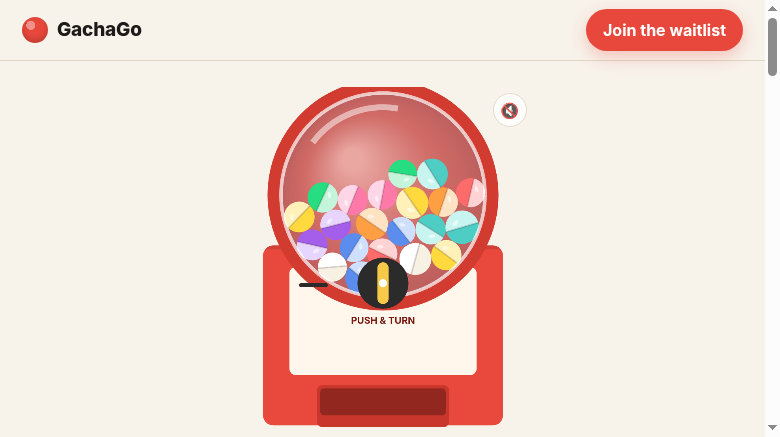
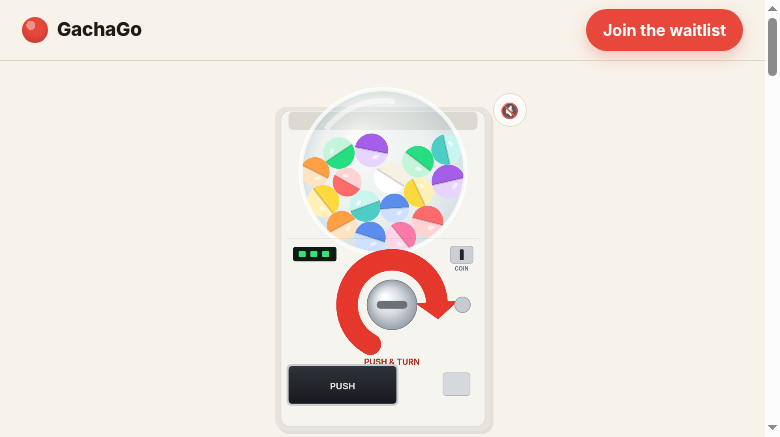
MC-488: GachaGo LP ガチャ機を本物の日本ガシャポンに作り直し
- 実機録画(Bandai gashapon)をフレーム解析し機体を忠実化: 上=カプセルドーム、
  下の機構=大きな赤い半円矢印+クロームのノブ+緑LED表示+COIN投入口+暗い排出ドロワー+コイン返却カップ
- 排出はドロワーから: 回す→ノブ回転+シェイク→カプセルがドロワーから出て前面に落下・バウンド→結果
- 需要分析: /api/gachago/stats(保護)でキャンペーン別/国別/日別集計+直近登録を返す
- auth: 公開は /gachago(静的) と /api/gachago/waitlist(+/count)の完全一致のみ。stats等は保護維持(email非公開)

実機検証(公開URL・トークン無し): 本物寄りの機体描画・回す→ドロワー排出→結果まで通し・LP/count公開200・stats 401維持

Changed region(s): [[0.3385, 0.1785, 0.6462, 0.9817]]

diff --git a/web/public/gachago.html b/web/public/gachago.html
@@ -325,13 +325,14 @@
   ];
   function rnd(a,b){ return a + Math.random()*(b-a); }
 
-  // machine geometry (logical coords)
+  // machine geometry (logical coords) — authentic Japanese gashapon layout:
+  // glass dome (top) → white mechanism panel (red arc + chrome knob + LED + coin) → dark dispense drawer (bottom-left)
   var M = {
-    bodyX: W*0.5, topY: H*0.06,
-    domeCx: W*0.5, domeCy: H*0.30, domeR: W*0.34,   // glass dome
-    trayY: H*0.845, trayX: W*0.5, trayW: W*0.44,
-    chuteX: W*0.5, chuteY: H*0.66,                  // dispense opening
-    knobX: W*0.5, knobY: H*0.545, knobR: W*0.085
+    domeCx: W*0.50, domeCy: H*0.235, domeR: W*0.275,  // glass dome of capsules
+    knobX:  W*0.53, knobY: H*0.605, knobR: W*0.083,   // chrome turn knob
+    arrowR: W*0.150,                                   // red semicircle arrow radius
+    drawerX:W*0.055,drawerY:H*0.775, drawerW:W*0.34, drawerH:H*0.105, // dark dispense drawer (bottom-left)
+    restY:  H*0.905                                     // where the capsule lands in front
   };
   var GRAV = 0.55;
 
@@ -339,7 +340,7 @@
   var caps = [];
   function makeCaps(){
     caps = [];
-    var n = 22;
+    var n = 16;
     for(var i=0;i<n;i++){
       var c = CAP_COLORS[i % CAP_COLORS.length];
       caps.push({
@@ -405,8 +406,9 @@
     }
   }
 
-  // dropped capsule (the one that comes out)
+  // dropped capsule (the one that comes out) + live dispense-mouth coords (set in draw)
   var drop=null;
+  var DISP={x:W*0.28,y:H*0.80};
 
   // ---------- drawing ----------
   function roundRect(x,y,w,h,r){ ctx.beginPath(); ctx.moveTo(x+r,y);
@@ -436,58 +438,82 @@
     ctx.save();
     if(shakeMag>0.2){ ctx.translate(rnd(-shakeMag,shakeMag), rnd(-shakeMag,shakeMag)); }
 
-    // ----- machine body -----
-    var bw=W*0.80, bx=(W-bw)/2;
-    // base cabinet
-    ctx.fillStyle="#e9483c";
-    roundRect(bx, H*0.44, bw, H*0.50, 26); ctx.fill();
-    ctx.fillStyle="rgba(0,0,0,.10)";
-    roundRect(bx, H*0.44, bw, H*0.50, 26); ctx.save(); ctx.clip();
-    ctx.fillRect(bx, H*0.44, bw, 10); ctx.restore();
-    // face plate
-    ctx.fillStyle="#fff6ec";
-    roundRect(bx+bw*0.11, H*0.50, bw*0.78, H*0.30, 16); ctx.fill();
+    // ----- white machine body -----
+    var bw=W*0.72, bx=(W-bw)/2, by=H*0.055, bh=H*0.90;
+    ctx.fillStyle="rgba(0,0,0,.08)"; roundRect(bx+6, by+8, bw, bh, 30); ctx.fill();   // drop shadow
+    ctx.fillStyle="#e7e4dd"; roundRect(bx, by, bw, bh, 30); ctx.fill();               // body shell
+    ctx.fillStyle="#f6f4ef"; roundRect(bx+W*0.02, by+H*0.012, bw-W*0.04, bh-H*0.024, 22); ctx.fill(); // inset face
+    ctx.strokeStyle="rgba(0,0,0,.06)"; ctx.lineWidth=2; ctx.stroke();
 
-    // dome glass housing ring
-    ctx.fillStyle="#d23b30";
-    ctx.beginPath(); ctx.arc(M.domeCx, M.domeCy, M.domeR+W*0.045, 0, 6.28); ctx.fill();
-    // glass dome
-    var g = ctx.createRadialGradient(M.domeCx-M.domeR*0.3,M.domeCy-M.domeR*0.35,M.domeR*0.1, M.domeCx,M.domeCy,M.domeR);
-    g.addColorStop(0,"rgba(255,255,255,.55)"); g.addColorStop(.6,"rgba(210,235,245,.28)"); g.addColorStop(1,"rgba(140,180,200,.30)");
-    ctx.fillStyle=g;
-    ctx.beginPath(); ctx.arc(M.domeCx, M.domeCy, M.domeR, 0, 6.28); ctx.fill();
-
-    // capsules clipped to dome
-    ctx.save();
-    ctx.beginPath(); ctx.arc(M.domeCx,M.domeCy,M.domeR,0,6.28); ctx.clip();
+    // ----- dome collar + glass dome (top) -----
+    ctx.fillStyle="#dcd9d1"; roundRect(bx+W*0.045, by+H*0.014, bw-W*0.09, H*0.05, 12); ctx.fill();
+    var g = ctx.createRadialGradient(M.domeCx-M.domeR*0.3,M.domeCy-M.domeR*0.4,M.domeR*0.1, M.domeCx,M.domeCy,M.domeR);
+    g.addColorStop(0,"rgba(255,255,255,.62)"); g.addColorStop(.62,"rgba(214,236,245,.26)"); g.addColorStop(1,"rgba(150,185,205,.32)");
+    ctx.fillStyle=g; ctx.beginPath(); ctx.arc(M.domeCx, M.domeCy, M.domeR, 0, 6.28); ctx.fill();
+    ctx.save(); ctx.beginPath(); ctx.arc(M.domeCx,M.domeCy,M.domeR,0,6.28); ctx.clip();
     for(var i=0;i<caps.length;i++){ var c=caps[i]; drawCapsule(c.x,c.y,c.r,c.col,c.ang); }
     ctx.restore();
-    // glass rim + shine
-    ctx.strokeStyle="rgba(255,255,255,.7)"; ctx.lineWidth=W*0.012;
+    ctx.strokeStyle="rgba(255,255,255,.78)"; ctx.lineWidth=W*0.014;
     ctx.beginPath(); ctx.arc(M.domeCx, M.domeCy, M.domeR, 0, 6.28); ctx.stroke();
-    ctx.strokeStyle="rgba(255,255,255,.5)"; ctx.lineWidth=W*0.02;
+    ctx.strokeStyle="rgba(255,255,255,.5)"; ctx.lineWidth=W*0.018;
     ctx.beginPath(); ctx.arc(M.domeCx, M.domeCy, M.domeR*0.86, -2.5, -1.4); ctx.stroke();
 
-    // ----- knob (crank) -----
+    // ----- mechanism panel -----
+    var py=H*0.42;                                                       // top of mechanism
+    ctx.strokeStyle="rgba(0,0,0,.07)"; ctx.lineWidth=2;
+    ctx.beginPath(); ctx.moveTo(bx+W*0.04, py); ctx.lineTo(bx+bw-W*0.04, py); ctx.stroke();
+
+    // green LED display (top-left)
+    var gx=bx+W*0.06, gy=py+H*0.024, gw=W*0.145, gh=H*0.04;
+    ctx.fillStyle="#0d1c13"; roundRect(gx,gy,gw,gh,6); ctx.fill();
+    ctx.fillStyle="#37e07a";
+    for(var d2=0; d2<3; d2++){ roundRect(gx+gw*0.13+d2*gw*0.27, gy+gh*0.3, gw*0.16, gh*0.4, 2); ctx.fill(); }
+
+    // coin slot (top-right) + COIN
+    var csx=bx+bw-W*0.135, csy=py+H*0.022;
+    ctx.fillStyle="#cccfd4"; roundRect(csx,csy,W*0.075,H*0.048,7); ctx.fill();
+    ctx.strokeStyle="#a7abb1"; ctx.lineWidth=1.5; ctx.stroke();
+    ctx.fillStyle="#22252b"; roundRect(csx+W*0.031,csy+H*0.009,W*0.013,H*0.03,3); ctx.fill();
+    ctx.fillStyle="#5566a0"; ctx.font="700 "+Math.round(W*0.019)+"px system-ui"; ctx.textAlign="center";
+    ctx.fillText("COIN", csx+W*0.037, csy+H*0.048+H*0.02);
+
+    // big red semicircle arrow sweeping around the knob
+    ctx.save(); ctx.translate(M.knobX, M.knobY);
+    ctx.strokeStyle="#e5372b"; ctx.lineWidth=W*0.072; ctx.lineCap="round";
+    ctx.beginPath(); ctx.arc(0,0,M.arrowR, Math.PI*0.66, Math.PI*1.98); ctx.stroke();
+    var ae=Math.PI*1.98, ex=Math.cos(ae)*M.arrowR, ey=Math.sin(ae)*M.arrowR;   // arrowhead
+    ctx.fillStyle="#e5372b"; ctx.save(); ctx.translate(ex,ey); ctx.rotate(ae+Math.PI/2);
+    ctx.beginPath(); ctx.moveTo(0,-W*0.072); ctx.lineTo(W*0.058,0); ctx.lineTo(0,W*0.072); ctx.closePath(); ctx.fill();
+    ctx.restore(); ctx.restore();
+
+    // chrome knob (rotates while spinning)
     ctx.save(); ctx.translate(M.knobX, M.knobY); ctx.rotate(knobAng);
-    ctx.fillStyle="#2b2b2b"; ctx.beginPath(); ctx.arc(0,0,M.knobR,0,6.28); ctx.fill();
-    ctx.fillStyle="#f7c948";
-    roundRect(-M.knobR*0.22,-M.knobR*0.82, M.knobR*0.44, M.knobR*1.64, M.knobR*0.22); ctx.fill();
-    ctx.fillStyle="#fff"; ctx.beginPath(); ctx.arc(0,0,M.knobR*0.16,0,6.28); ctx.fill();
+    var kg=ctx.createRadialGradient(-M.knobR*0.3,-M.knobR*0.3,M.knobR*0.1, 0,0,M.knobR);
+    kg.addColorStop(0,"#ffffff"); kg.addColorStop(.5,"#d6dade"); kg.addColorStop(1,"#98a0aa");
+    ctx.fillStyle=kg; ctx.beginPath(); ctx.arc(0,0,M.knobR,0,6.28); ctx.fill();
+    ctx.strokeStyle="#7c828c"; ctx.lineWidth=2; ctx.stroke();
+    ctx.fillStyle="#6b7079"; roundRect(-M.knobR*0.62,-M.knobR*0.16, M.knobR*1.24, M.knobR*0.32, M.knobR*0.16); ctx.fill();
     ctx.restore();
-    ctx.fillStyle="#7a1c14"; ctx.font="700 "+Math.round(W*0.032)+"px system-ui"; ctx.textAlign="center";
-    ctx.fillText("PUSH & TURN", M.knobX, M.knobY+M.knobR+W*0.05);
+    ctx.fillStyle="#b23127"; ctx.font="700 "+Math.round(W*0.028)+"px system-ui"; ctx.textAlign="center";
+    ctx.fillText("PUSH & TURN", M.knobX, M.knobY+M.arrowR+H*0.042);
 
-    // coin slot
-    ctx.fillStyle="#2b2b2b";
-    roundRect(bx+bw*0.15, H*0.545, bw*0.12, 10, 5); ctx.fill();
+    // coin-return knob (small chrome, right)
+    ctx.fillStyle="#c7cbd0"; ctx.beginPath(); ctx.arc(bx+bw-W*0.095, M.knobY, W*0.026, 0, 6.28); ctx.fill();
+    ctx.strokeStyle="#9aa1ab"; ctx.lineWidth=2; ctx.stroke();
 
-    // ----- dispense tray -----
-    ctx.fillStyle="#c9362b";
-    roundRect(M.trayX-M.trayW/2, M.trayY-W*0.02, M.trayW, W*0.14, 14); ctx.fill();
-    // tray opening (dark)
-    ctx.fillStyle="rgba(0,0,0,.28)";
-    roundRect(M.trayX-M.trayW/2+8, M.trayY-W*0.02+8, M.trayW-16, W*0.09, 10); ctx.fill();
+    // ----- dark dispense drawer (bottom-left) -----
+    var dx=bx+W*0.045, dy=M.drawerY, dw=bw*0.5, dh=M.drawerH;
+    DISP.x=dx+dw*0.5; DISP.y=dy;                                          // dispense mouth for startDrop
+    ctx.fillStyle="#c9cdd2"; roundRect(dx-5,dy-5,dw+10,dh+10,13); ctx.fill();          // metal surround
+    var dg=ctx.createLinearGradient(0,dy,0,dy+dh);
+    dg.addColorStop(0,"rgba(38,41,48,.94)"); dg.addColorStop(1,"rgba(16,18,24,.96)");
+    ctx.fillStyle=dg; roundRect(dx,dy,dw,dh,9); ctx.fill();                            // dark flap
+    ctx.strokeStyle="rgba(255,255,255,.12)"; ctx.lineWidth=1.5; ctx.stroke();
+    ctx.fillStyle="rgba(255,255,255,.82)"; ctx.font="700 "+Math.round(W*0.03)+"px system-ui"; ctx.textAlign="center";
+    ctx.fillText("PUSH", dx+dw*0.5, dy+dh*0.62);
+    // coin-return cup (bottom-right)
+    ctx.fillStyle="#d5d8dc"; roundRect(bx+bw-W*0.16, dy+dh*0.18, W*0.09, dh*0.6, 7); ctx.fill();
+    ctx.strokeStyle="#b4b8bd"; ctx.lineWidth=1.5; ctx.stroke();
 
     // dropped capsule
     if(drop){ drawCapsule(drop.x,drop.y,drop.r,drop.col,drop.ang); }
@@ -516,8 +542,8 @@
     else if(state==="drop"){
       shakeMag*=0.8; stepDome(0);
       drop.vy += 0.9; drop.x += drop.vx; drop.y += drop.vy; drop.ang += drop.va;
-      // squash on tray floor
-      var floor = M.trayY + W*0.02;
+      // squash on landing floor (front of machine)
+      var floor = M.restY;
       if(drop.y + drop.r > floor){
         drop.y = floor - drop.r;
         if(Math.abs(drop.vy) > 2){ drop.vy *= -0.42; drop.vx*=0.7; burst(drop.x, floor, drop.col[0]); playClack(); }
@@ -535,7 +561,8 @@
     var pick=caps[0], idx=0;
     for(var i=1;i<caps.length;i++){ if(caps[i].y>pick.y){ pick=caps[i]; idx=i; } }
     caps.splice(idx,1);
-    drop = { x:M.chuteX, y:M.chuteY, vx:rnd(-1.5,1.5), vy:2, r:W*0.075, col:pick.col, ang:0, va:rnd(-0.2,0.2), settle:0 };
+    // capsule emerges from the dark dispense drawer and tumbles to the front
+    drop = { x:DISP.x, y:DISP.y+W*0.02, vx:rnd(0.6,2.0), vy:1.2, r:W*0.072, col:pick.col, ang:0, va:rnd(-0.22,0.22), settle:0 };
     state="drop"; shakeMag=4;
     playClack();
   }
@@ -555,7 +582,7 @@
     })(drop.col);
     cc.appendChild(cv);
     r.classList.add("show");
-    burst(M.trayX, M.trayY, drop.col[0]);
+    burst(drop.x, drop.y, drop.col[0]);
     document.getElementById("hint").style.opacity="0";
   }
 

diff --git a/server/src/gachagoRouter.ts b/server/src/gachagoRouter.ts
@@ -38,26 +38,76 @@ function clip(v: unknown, max: number): string | undefined {
   return t.slice(0, max);
 }
 
-/** 既存の登録 email 集合と件数を読む（重複判定＋カウント用）。無い/壊れは空扱い。 */
-function loadEmails(): Set<string> {
-  const set = new Set<string>();
+/** JSONL を全レコード配列として読む（壊れた行はスキップ）。無ければ空配列。 */
+function loadRecords(): WaitlistRecord[] {
+  const out: WaitlistRecord[] = [];
   try {
-    if (!existsSync(WAITLIST_FILE)) return set;
+    if (!existsSync(WAITLIST_FILE)) return out;
     const raw = readFileSync(WAITLIST_FILE, 'utf8');
     for (const line of raw.split('\n')) {
       const s = line.trim();
       if (!s) continue;
       try {
         const rec = JSON.parse(s) as Partial<WaitlistRecord>;
-        if (rec.email) set.add(String(rec.email).toLowerCase());
+        if (rec.email) out.push(rec as WaitlistRecord);
       } catch {
         /* 壊れた行はスキップ */
       }
     }
   } catch {
-    /* 読めなければ空集合 */
+    /* 読めなければ空配列 */
   }
+  return out;
+}
+
+/** 既存の登録 email 集合を読む（重複判定＋カウント用）。 */
+function loadEmails(): Set<string> {
+  const set = new Set<string>();
+  for (const rec of loadRecords()) set.add(String(rec.email).toLowerCase());
   return set;
+}
+
+/** 登録レコードを広告キャンペーン別に集計する（需要分析の中核・MC-488）。 */
+function computeStats() {
+  const seen = new Set<string>();
+  const unique: WaitlistRecord[] = [];
+  for (const r of loadRecords()) {
+    const key = String(r.email).toLowerCase();
+    if (seen.has(key)) continue;
+    seen.add(key);
+    unique.push(r);
+  }
+
+  const tally = (pick: (r: WaitlistRecord) => string | undefined) => {
+    const m = new Map<string, number>();
+    for (const r of unique) {
+      const k = (pick(r) || '(none)').toLowerCase();
+      m.set(k, (m.get(k) || 0) + 1);
+    }
+    return [...m.entries()].sort((a, b) => b[1] - a[1]).map(([key, count]) => ({ key, count }));
+  };
+
+  const recent = [...unique]
+    .sort((a, b) => (b.ts || '').localeCompare(a.ts || ''))
+    .slice(0, 30)
+    .map((r) => ({
+      email: r.email,
+      ts: r.ts,
+      country: r.country,
+      utm_source: r.utm?.utm_source,
+      utm_campaign: r.utm?.utm_campaign,
+      ref: r.ref,
+    }));
+
+  return {
+    total: unique.length,
+    bySource: tally((r) => r.utm?.utm_source),
+    byCampaign: tally((r) => r.utm?.utm_campaign),
+    byMedium: tally((r) => r.utm?.utm_medium),
+    byCountry: tally((r) => r.country),
+    byDay: tally((r) => (r.ts ? r.ts.slice(0, 10) : undefined)),
+    recent,
+  };
 }
 
 export function gachagoRouter(): Router {
@@ -116,6 +166,13 @@ export function gachagoRouter(): Router {
 
   router.get('/waitlist/count', (_req: Request, res: Response) => {
     res.json({ count: loadEmails().size });
+  });
+
+  // 需要分析ダッシュボード用の集計（広告キャンペーン別・国別・日別＋直近登録）。
+  // /api/gachago/stats は PUBLIC_PATH_EXACT に含めない＝MC_TOKEN 保護下。
+  // 登録者 email を含むため、一般公開せず Keita/管理のみが閲覧できる。
+  router.get('/stats', (_req: Request, res: Response) => {
+    res.json(computeStats());
   });
 
   return router;

diff --git a/server/src/lib/auth.ts b/server/src/lib/auth.ts
@@ -163,14 +163,20 @@ export function loginHandler(req: Request, res: Response): void {
  * 認証ミドルウェアを生成する。
  * @param healthzPath 認証を免除する軽量ヘルスチェックのパス（systemd 用）。
  */
-// 認証を免除する公開パスの接頭辞（MC-488）。
-//  - /gachago     : 需要検証LPの静的配信（gachago.html / gachago-og.png 等）。
-//  - /api/gachago : 待ち登録API（POST /waitlist・GET /waitlist/count）。
-// 広告流入の一般訪問者は MC_TOKEN を持たないため、この2系統だけトークン無しで開ける。
-// それ以外（管理UI・全API）は従来どおり保護される。
-const PUBLIC_PATH_PREFIXES = ['/gachago', '/api/gachago'];
+// 認証を免除する公開パス（MC-488）。
+//  - /gachago（接頭辞）: 需要検証LPの静的配信（gachago.html / gachago-og.png 等）。
+// 広告流入の一般訪問者は MC_TOKEN を持たないため、これだけトークン無しで開ける。
+const PUBLIC_PATH_PREFIXES = ['/gachago'];
+
+// API は「一般訪問者が叩く必要のある2本」だけを完全一致で公開する。
+//  - POST /api/gachago/waitlist       : 待ち登録の受け皿。
+//  - GET  /api/gachago/waitlist/count : 「N人が待機中」の社会的証明表示用。
+// これ以外の /api/gachago/*（需要分析の stats/report など・登録者emailを含む）は
+// 従来どおり MC_TOKEN 保護に残す。接頭辞公開だと集計/emailが漏れるため完全一致に限定。
+const PUBLIC_PATH_EXACT = ['/api/gachago/waitlist', '/api/gachago/waitlist/count'];
 
 function isPublicPath(path: string): boolean {
+  if (PUBLIC_PATH_EXACT.includes(path)) return true;
   return PUBLIC_PATH_PREFIXES.some((p) => path === p || path.startsWith(p + '/') || path.startsWith(p + '.'));
 }
 
